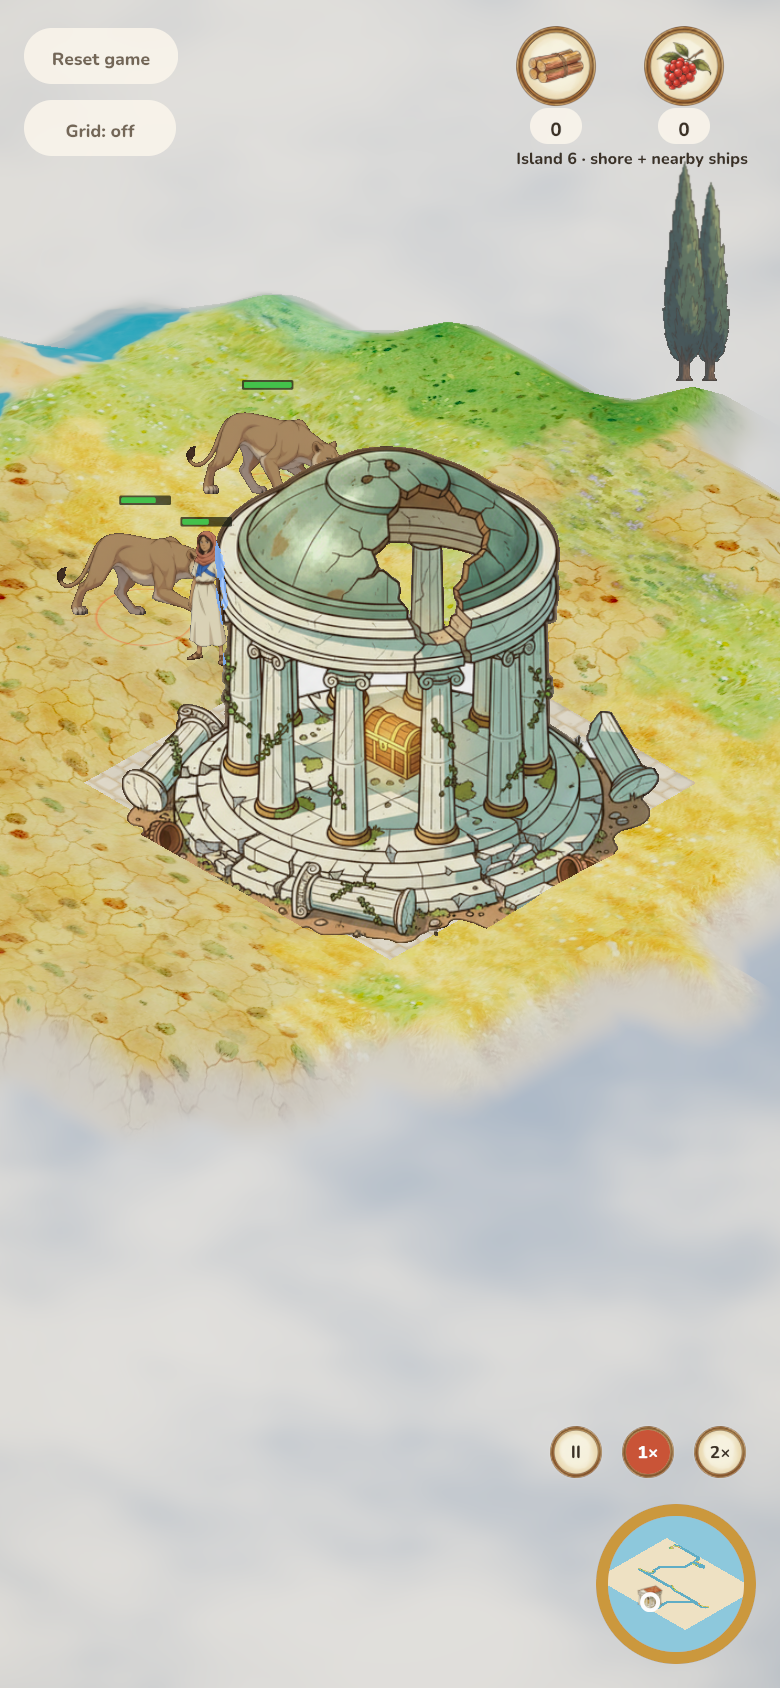
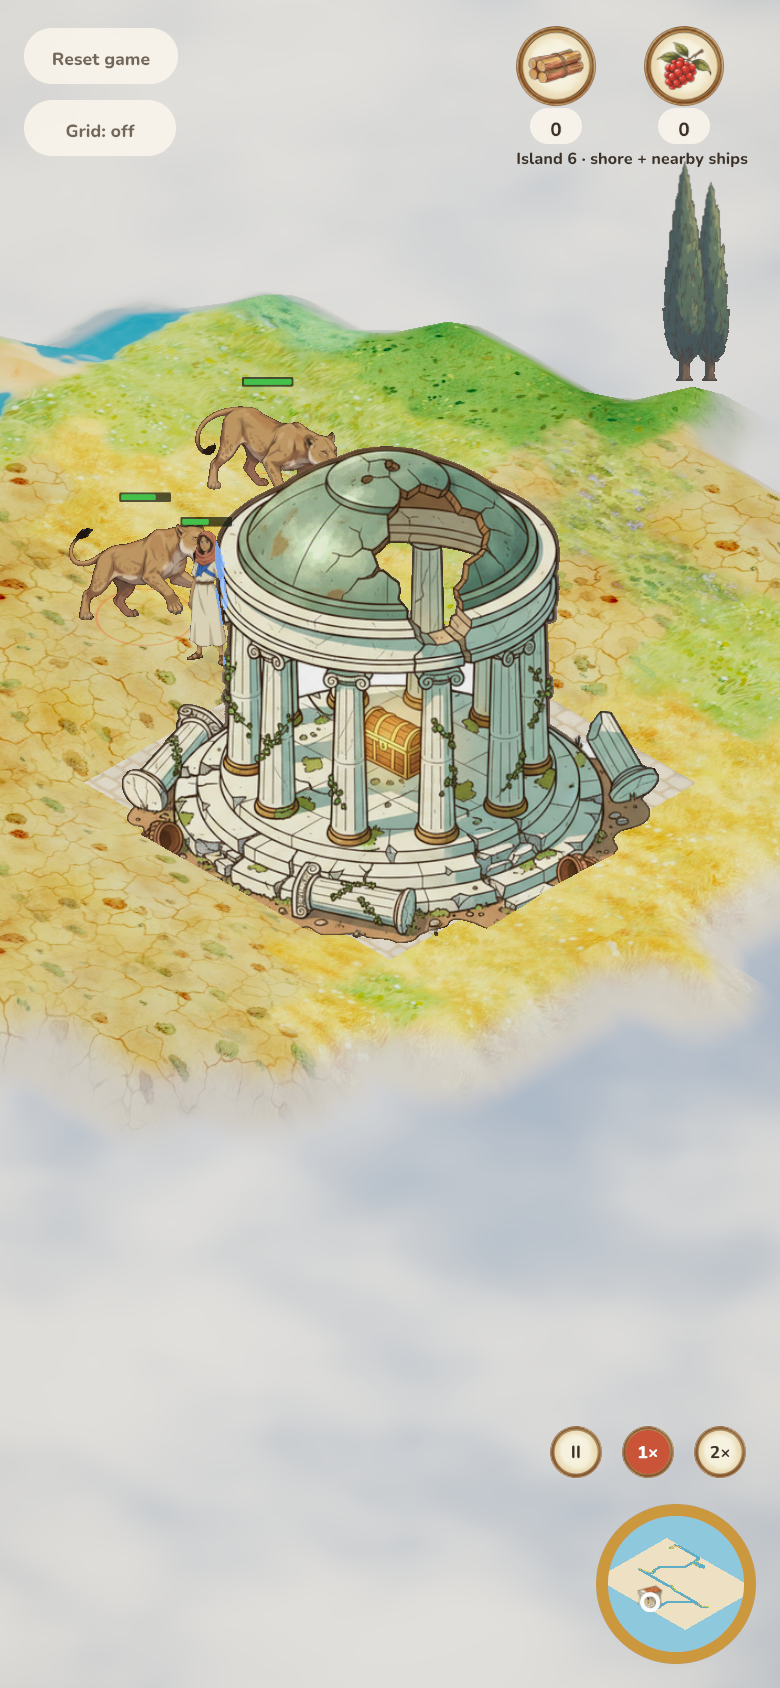
Use the Nemean lion and island huntress designs for the pride
Jakob picked these from six concept designs after rejecting the earlier lion
drafts (generic, then grey, then off in line work and colour). Both concepts
were adapted with nano-banana-pro edit, using the shipped wolf/bear sheet as
the style reference and the concept for design and colour. The lion used the
adapted huntress as its pride reference.

The packer reads the 1024px source quadrants and downsamples them by one
common factor, never enlarging. The lion quads return to wolf scale, with
the leader about a fifth taller. Provenance, the asset lesson and the review
evidence are updated.

Claude-Session: https://claude.ai/code/session_01Tn1BkVmeuuLTe7qVsn2x5n

Changed region(s): [[0.0615, 0.2156, 0.4308, 0.3697]]

diff --git a/scripts/pack_wildlife.py b/scripts/pack_wildlife.py
@@ -64,26 +64,31 @@ def main():
         assert bounds[3] + offset[1] < CELL
         atlas.alpha_composite(frame, (col * CELL + offset[0], 2 * CELL + offset[1]))
         frames[f"boar_{pose}"] = [col * CELL, 2 * CELL, CELL, CELL]
-    # Lions: 512px source quadrants placed unenlarged. A pose is every opaque shape
-    # whose center lies in its quadrant, so a tail crossing the quadrant edge
-    # stays with its body. The lowest (planted) paws sit on the shared baseline.
-    for row, name in [(3, "lioness"), (4, "lion")]:
-        sheet = Image.open(ROOT / f"assets/sprites/lion_sources/{name}_family_cutout.png").convert("RGBA")
-        assert sheet.size == (1024, 1024)
+    # Lions: 1024px source quadrants, downsampled by one common factor (never
+    # enlarged). A pose is every opaque shape whose center lies in its quadrant,
+    # so a tail crossing the quadrant edge stays with its body. The lowest
+    # (planted) paws sit on the shared baseline.
+    half, scale = 1024, 589 / 1024
+    for row, name, source in [(3, "lioness", "huntress"), (4, "lion", "nemean")]:
+        sheet = Image.open(ROOT / f"assets/sprites/lion_sources/{source}_cutout.png").convert("RGBA")
+        assert sheet.size == (2 * half, 2 * half)
         alpha = np.asarray(sheet.getchannel("A")) > 128
         labels, count = ndimage.label(alpha)
         centers = ndimage.center_of_mass(alpha, labels, range(1, count + 1))
         pixels = np.asarray(sheet)
         for col, pose in enumerate(["idle", "walk", "attack_windup", "attack_strike"]):
-            x, y = col % 2 * 512, col // 2 * 512
+            x, y = col % 2 * half, col // 2 * half
             shapes = [i + 1 for i, (cy, cx) in enumerate(centers)
-                      if x <= cx < x + 512 and y <= cy < y + 512]
+                      if x <= cx < x + half and y <= cy < y + half]
             # Keep soft edge pixels of the pose's own shapes only.
-            mask = ndimage.binary_dilation(np.isin(labels, shapes), iterations=3)
+            mask = ndimage.binary_dilation(np.isin(labels, shapes), iterations=4)
             frame = Image.fromarray(np.where(mask[..., None], pixels, 0).astype(np.uint8), "RGBA")
+            frame = frame.crop((x - half // 4, y, x + half + half // 4, y + half))
+            frame = frame.resize((round(frame.width * scale), round(frame.height * scale)),
+                                 Image.Resampling.LANCZOS)
             bounds = frame.getchannel("A").point(lambda a: 255 if a > 128 else 0).getbbox()
             assert bounds is not None
-            offset = ((CELL - 512) // 2 - x, BASELINE - bounds[3])
+            offset = ((CELL - round(half * scale)) // 2 - round(half // 4 * scale), BASELINE - bounds[3])
             assert 0 <= bounds[0] + offset[0] and bounds[2] + offset[0] < CELL
             assert 0 <= bounds[1] + offset[1]
             cell = Image.new("RGBA", (CELL, CELL))

diff --git a/crates/client/src/view/wildlife.rs b/crates/client/src/view/wildlife.rs
@@ -20,9 +20,8 @@ pub(super) fn draw(
             aoa_game::AnimalKind::Wolf => (0, 0.95, 0.25),
             aoa_game::AnimalKind::Bear => (1, 1.3, 0.35),
             aoa_game::AnimalKind::Boar => (2, 0.95, 0.25),
-            // Lion cells come from smaller 512px sources, hence the larger quad.
-            aoa_game::AnimalKind::Lioness => (3, 1.25, 0.3),
-            aoa_game::AnimalKind::Lion => (4, 1.45, 0.35),
+            aoa_game::AnimalKind::Lioness => (3, 0.95, 0.3),
+            aoa_game::AnimalKind::Lion => (4, 1.0, 0.35),
         };
         let moving = animal.step.is_some();
         let stride = moving && (time * 5.0) as u32 % 2 == 1;

diff --git a/crates/client/src/view/health.rs b/crates/client/src/view/health.rs
@@ -37,8 +37,8 @@ impl WorldView {
                 aoa_game::AnimalKind::Wolf => 0.75,
                 aoa_game::AnimalKind::Bear => 0.8,
                 aoa_game::AnimalKind::Boar => 0.55,
-                aoa_game::AnimalKind::Lioness => 0.57,
-                aoa_game::AnimalKind::Lion => 0.6,
+                aoa_game::AnimalKind::Lioness => 0.75,
+                aoa_game::AnimalKind::Lion => 0.86,
             };
             let height = sprite.size[1] * (top - sprite.pivot[1]);
             if let Some(top) = rig.screen_offset(Vec3::from(sprite.anchor), up * height) {

diff --git a/docs/verification/lions/README.md b/docs/verification/lions/README.md
@@ -8,25 +8,26 @@ The injected scene is for rendering only and was not validated by the simulation
 
 - `style-compare.png`: shipped wolf, bear and boar beside the lioness and lion
   (idle, idle, strike, strike). Not to game scale.
-- `before-after.png`: rejected draft 1 (top) against the integrated family pass.
+- `before-after.png`: rejected draft 1 (top) against the rejected grey family pass.
 - `poses.png`: all four poses of each, on flat grass.
 - `desktop.png`, `desktop-zoom.png`: 1280×800, DPR 1.
 - `phone.png`: 390×844, DPR 2.
 
 ## Style acceptance (pending Jakob)
 
-Draft 1 was rejected on 2026-10-10: colour and shading were not consistent with
-the game. The integrated sheets were generated fresh from the shipped wolf/bear
-sheet ([lesson](../../knowledge/asset-pipeline.md#new-species-from-the-family-sheet-2026-10-10)).
+Rejected along the way (2026-10-10): draft 1 (generic, Disney-like), the family
+pass (grey), and a warm painterly redraw (line work and colours off). Jakob then
+picked the suggested concepts: the Nemean lion as leader and the island huntress
+as lioness ([lesson](../../knowledge/asset-pipeline.md#new-species-from-the-family-sheet-2026-10-10)).
 
-Matches now: muted earthy coat (lioness saturation 0.42 and lion 0.45, between the
-boar's 0.36 and the bear's 0.51), the wolf's two-tone cream underside, painted
-shadow on far legs and belly, dark grey claws, brush-stroke mane strands, thin
-warm brown contours, one colour across all four cells of each sheet, a clearly
-crouched windup and an open-jaw strike.
+- `concept-to-sprite.png`: both concepts and the four packed poses of each.
+- `style-compare.png` now shows wolf, bear, boar, lioness and lion idle, then both
+  strikes, at their true in-game relative scale.
 
-Still open: fur texture is softer than the wolf's strokes at close zoom; sources
-are 512px cells (other animals 627px); no OpenAI image_gen cleanup pass yet.
+Matches: thin warm brown contours, cel colour areas with one painted shadow tone,
+dark grey claws, consistent identity and colour across poses, crouched windups,
+open-jaw strikes. Still open: the Nemean hide keeps a slight sheen and both are a
+touch more detailed than the wolf; no OpenAI image_gen cleanup pass yet.
 
 ## Behavior checks run
 

diff --git a/decisions.md b/decisions.md
@@ -9,7 +9,7 @@ Current choices are below; superseded designs are isolated at the end. [Rework l
 - **Health display (2026-10-06):** Thin overhead bars replace numeric HP for villagers and animals, changing from green to orange to red as health falls; combat damage is visible through the shrinking bar ([details](docs/knowledge/wildlife.md#health-display-direction-2026-10-06)).
 
 - **Build hints and NPC feedback (2026-10-06):** Show build details and placement instructions in the building menu information area, replacing the top-middle bubble. NPC command/status messages and complaints fade over the addressed unit’s head, including blocked placement and delayed server rejections ([HUD guide](docs/knowledge/hud-and-accessibility.md)).
-- **Lion prides (2026-10-09):** The first monster class: one maned lion and 2–3 lionesses on every later island; one member sighting a unit alerts the whole pride, which still stays inside its territory ([wildlife](docs/knowledge/wildlife.md#lion-prides-2026-10-09)).
+- **Lion prides (2026-10-09):** The first monster class: one maned lion and 2–3 lionesses on every later island; one member sighting a unit alerts the whole pride, which still stays inside its territory; Jakob picked a Nemean lion leader and island huntress lionesses ([wildlife](docs/knowledge/wildlife.md#lion-prides-2026-10-09)).
 - **Boars (2026-10-06):** Add the retained boar concept alongside wolves and bears: one boar on the first island, 2–3 on later islands, preserving territorial combat and safe starts. Existing saved populations stay intact; the roster applies to newly generated islands.
 
 - **Fresh water (2026-10-05):** Jakob approved renewable riverbank collection as a basic stored resource, with 10 water paid once per field planting/replenishment cycle. Reuse normal carrying and island/ship storage; additional consumers and continuous irrigation are deferred ([water guide](docs/knowledge/water-resource.md)).

diff --git a/assets/sprites/lion_sources/README.md b/assets/sprites/lion_sources/README.md
@@ -3,14 +3,17 @@
 Lioness (pride member) and maned lion (pride leader), four poses each: idle,
 walk, attack windup, attack strike, facing right and mirrored in the renderer.
 
-The integrated sheets (`*_family_render_*`, cut out as `*_family_cutout.png`) were
-generated 2026-10-10 with FAL `fal-ai/nano-banana/edit` from the shipped square
-wolf/bear sheet alone, with the selected lioness as the lion's pride reference,
-then cut out with `fal-ai/birefnet/v2`. Jakob rejected the earlier drafts
-(`lion*_render_*`, `lion*_refined_render_*`) because their colour and shading
-did not match the game. Editing an off-style sheet kept its airbrushed fills, so
-generate new species fresh from the approved family sheet.
+Integrated designs, chosen by Jakob on 2026-10-10 from `concepts/`: the **island
+huntress** (faint rosettes, black-backed ears, white throat) as the lioness and
+the **Nemean lion** (bronze-gold hide, scarred muzzle, heavy mane) as the leader.
+Each was adapted with FAL `fal-ai/nano-banana-pro/edit` (2K, 1024px cells) using
+the shipped wolf/bear sheet as the style reference and its concept as the design
+reference, then cut out with `fal-ai/birefnet/v2` (`huntress_cutout.png`,
+`nemean_cutout.png`). The Nemean sheet had generated cell divider lines painted
+out first (`nemean_render_3_clean.png`).
 
-Prompts, references, request IDs, measurements and rejected passes are in
-`provenance.json`. Run `python3 scripts/pack_wildlife.py` to repack. No OpenAI
-image_gen refinement pass yet. [Review](../../../docs/verification/lions/README.md).
+Earlier passes (`lion*_render_*`, `*_refined_*`, `*_family_*`, `*_pro_*`) were
+rejected: generic Disney-like, then grey, then off in line work and colour.
+Prompts, references, request IDs and reviews are in `provenance.json`. Run
+`python3 scripts/pack_wildlife.py` to repack. No OpenAI image_gen cleanup pass.
+[Review](../../../docs/verification/lions/README.md).

diff --git a/docs/knowledge/wildlife.md b/docs/knowledge/wildlife.md
@@ -50,12 +50,11 @@ than villagers (3 cells/s off-road), so retreat still works. No schema change: o
 saves load; only islands discovered after the update gain prides.
 
 Art: `assets/sprites/lion_sources/` (prompts, renders, cutouts, provenance) packed
-as atlas rows 3–4 by `scripts/pack_wildlife.py`. The sources are 512px cells,
-placed unenlarged in 627px frames and drawn with a larger quad (lioness 1.25,
-lion 1.45, so the leader stands about a fifth taller). On 2026-10-10 Jakob found
-the first drafts' colour and shading inconsistent with the game; the integrated
-sheets were regenerated from the shipped wolf/bear sheet alone
-([asset lesson](asset-pipeline.md#new-species-from-the-family-sheet-2026-10-10)).
+as atlas rows 3–4 by `scripts/pack_wildlife.py`. Designs (Jakob, 2026-10-10): the
+lioness is an island huntress (faint rosettes, black-backed ears, white throat),
+the leader a scarred bronze-gold Nemean lion. Sources are 1024px cells downsampled
+into 627px frames; quads are 0.95 and 1.0, so the leader stands about a fifth
+taller ([asset lesson](asset-pipeline.md#new-species-from-the-family-sheet-2026-10-10)).
 Style review: [lion review](../verification/lions/README.md).
 
 ## Implemented rules

diff --git a/docs/knowledge/asset-pipeline.md b/docs/knowledge/asset-pipeline.md
@@ -203,7 +203,16 @@ cells. Generating fresh from the square shipped sheet
 the identity reference for its sibling form, matched palette and shading with one
 colour across all cells. Keep references square: a 2:1 reference produced
 1472×704 sheets with cells below the 512px minimum. Check per-cell saturation and
-value percentiles before packing. Provenance:
+value percentiles before packing.
+
+That family pass was itself rejected: copying the wolf made the lions grey, and
+the earlier drafts looked like generic animated-movie lions. What worked: first
+explore distinctive concepts with `fal-ai/nano-banana-pro` (text to image), let
+Jakob pick, then adapt each with `fal-ai/nano-banana-pro/edit` using the approved
+family sheet as style reference and the concept as design and colour reference;
+generate the second form with the first as its sibling reference. Ask for the
+facing, identical colours in every cell and two-thirds cell width explicitly,
+and check for generated cell divider lines before cutout. Provenance:
 [lion sources](../../assets/sprites/lion_sources/provenance.json).
 
 ## Wildlife style correction (2026-10-05)

diff --git a/OPEN_WORK.md b/OPEN_WORK.md
@@ -19,11 +19,9 @@ Finished work lives in merged PRs, `README.md` and the
 - The run is still far too easy: a short walk from the landing to the temple, and
   wildlife strength does not yet scale with distance.
 - Lions are in review on `claude/laughing-goodall-10lotl`: one pride (maned lion
-  plus 2–3 lionesses) per later island that hunts together. Behavior is done; the
-  art is not approved. Jakob rejected the first drafts (generic, Disney-like) and
-  the grey family pass, and asked for more interesting designs first: six concepts
-  in `assets/sprites/lion_sources/concepts/` await his pick, then get adapted to the
-  wolf/bear style ([evidence](docs/verification/lions/README.md)).
+  plus 2–3 lionesses) per later island that hunts together. Art: the Nemean lion
+  leader and island huntress lionesses Jakob picked from the concepts, adapted to
+  the wolf/bear style; waits on his style call ([evidence](docs/verification/lions/README.md)).
 
 ## Next steps to finish the capture-the-flag loop
 
